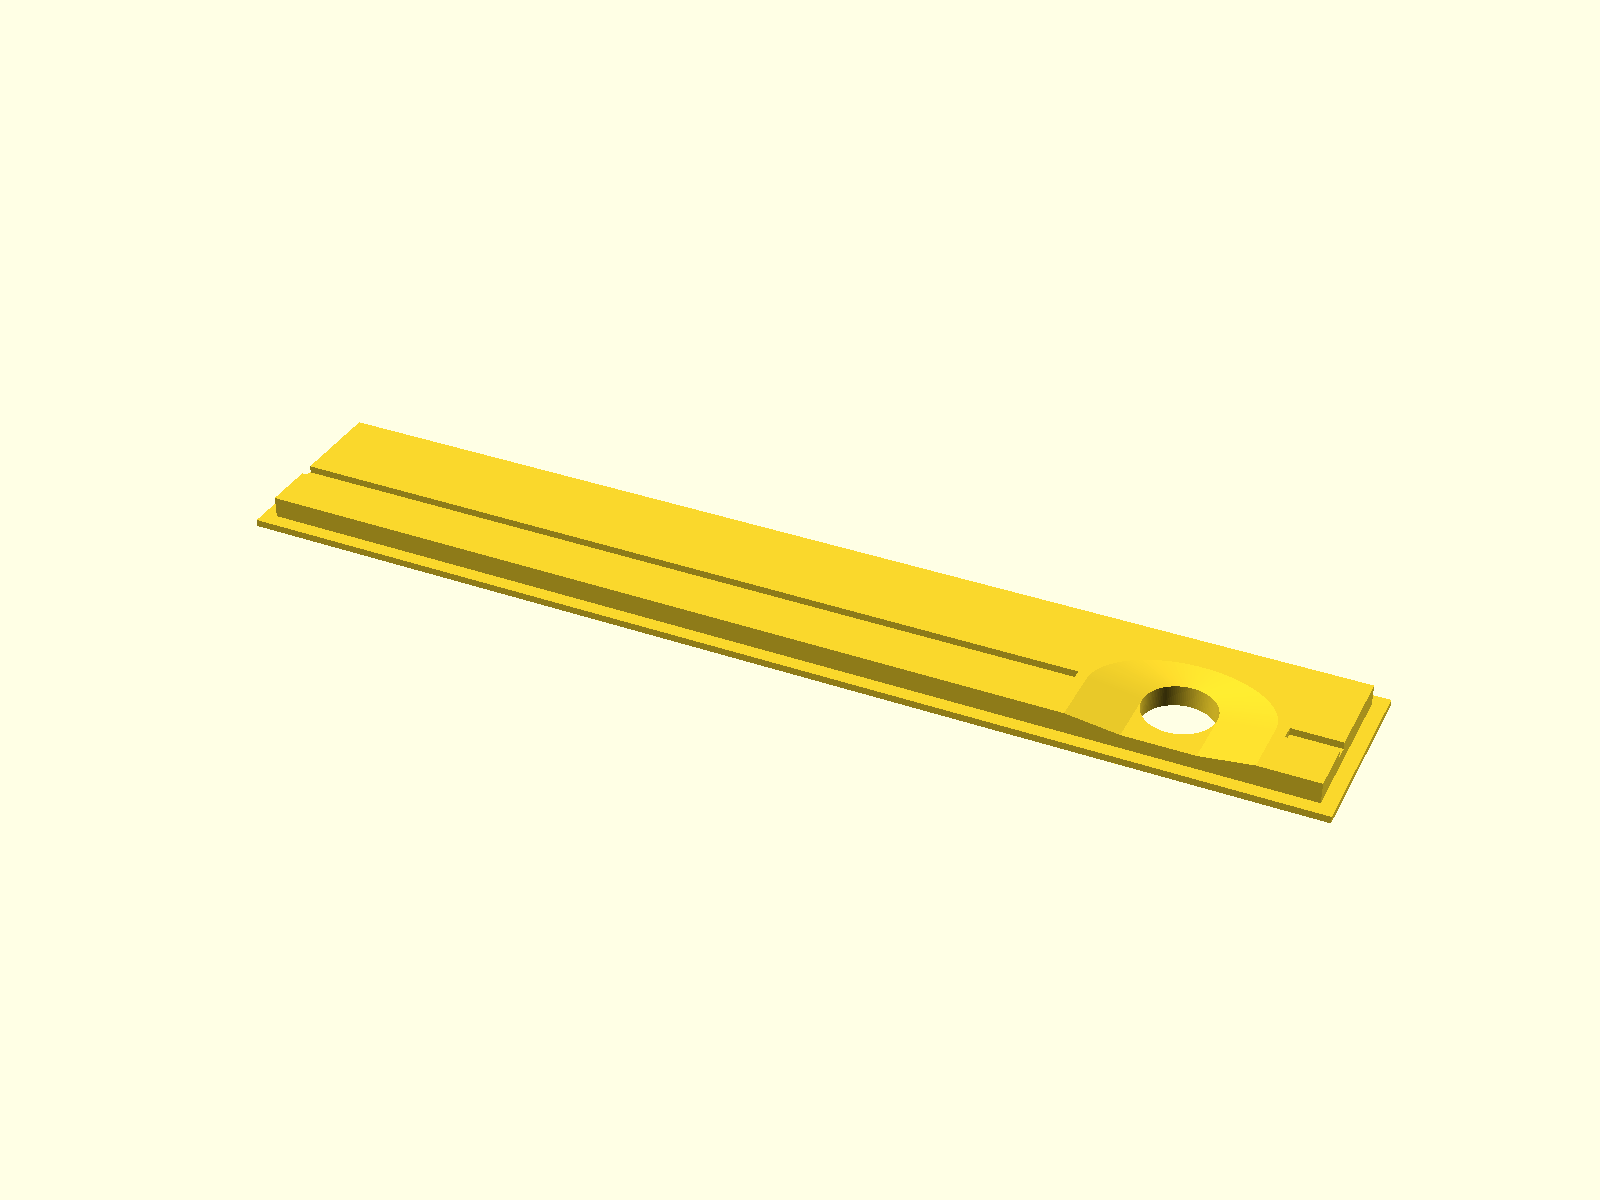
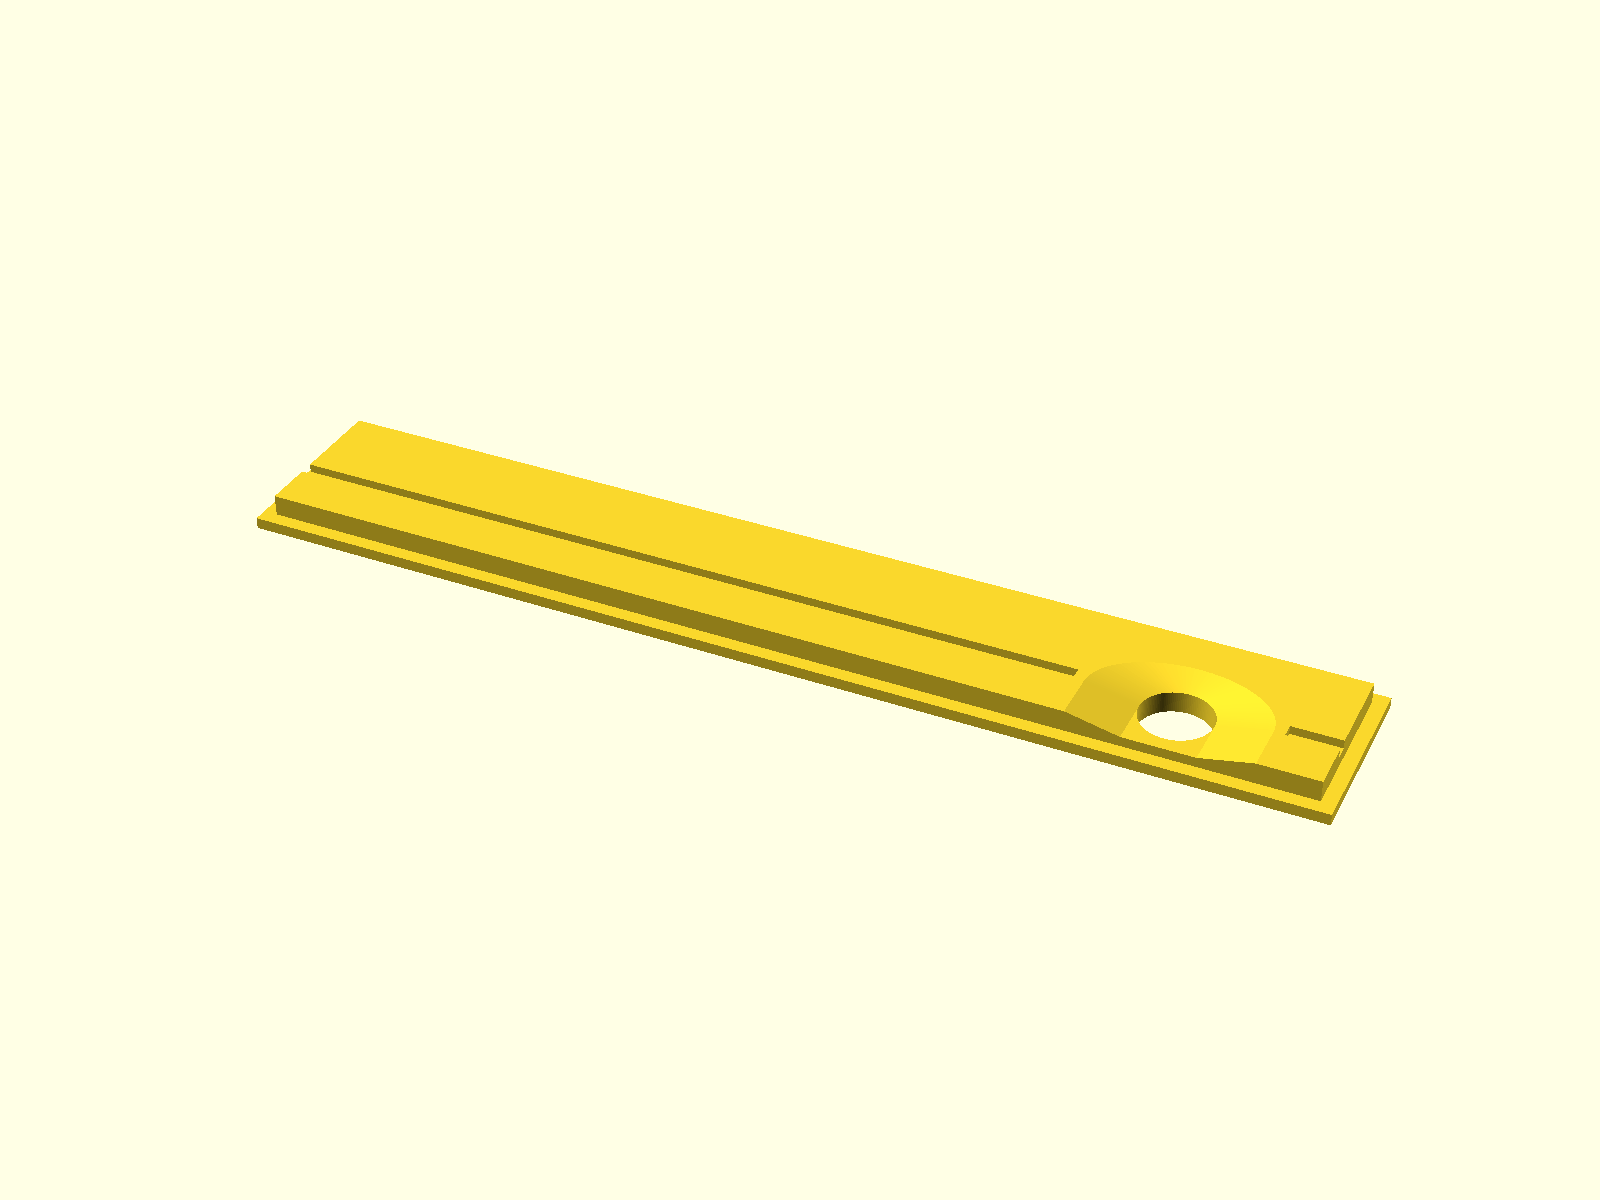
Update Korvet lid thickness, hole position and recess depths

diff --git a/models/pk8010-korvet/pk8010-korvet-side-lid/README.md b/models/pk8010-korvet/pk8010-korvet-side-lid/README.md
@@ -5,35 +5,37 @@ Stepped rectangular lid with a button through-hole, modeled from supplied dimens
 | Dimension | Value |
 | --- | ---: |
 | Base | 154 × 26 mm |
-| Base thickness | 1 mm |
+| Base thickness | 1.6 mm |
 | Centered upper rectangle | 150 × 22 mm |
 | Upper height above base | 3 mm |
-| Total height | 4 mm |
+| Total height | 4.6 mm |
 | Ledge on each side | 2 mm |
 | Button through-hole diameter | 10 mm |
-| Hole center from right / bottom base edges | 23 / 10 mm |
+| Hole center from right / bottom base edges | 23 / 9 mm |
 | Decorative groove center from bottom base edge | 10 mm |
-| Groove width / depth from top surface | 2 / 1 mm |
+| Groove width / depth from top surface | 2 / 1.2 mm |
 | Right / left groove length | 7 / 115 mm |
 | Finger recess width / upper arc ellipse height | 25 / 17 mm |
-| Recess depth at hole rim | 1 mm |
+| Recess depth at hole rim | 1.6 mm |
 
 In top view, with the origin at the base's bottom-left corner, the hole
-center is at X = 131 mm, Y = 10 mm. It passes through the full 4 mm thickness.
+center is at X = 131 mm, Y = 9 mm. It passes through the full 4.6 mm thickness.
 
 The finger recess has the upper half of a 25 × 17 mm ellipse centered on
 the hole, with straight sides descending from its widest points to the
 bottom edge. It slopes down to the hole rim and a 10 mm-wide central
-channel extending toward the bottom, both 1 mm below the top surface.
+channel extending toward the bottom, both 1.6 mm below the top surface.
 The recess opens across its full 25 mm width at the raised section's bottom
-edge. Its uppermost point is Y = 18.5 mm. The lower base ledge remains intact.
+edge. Its uppermost point is Y = 17.5 mm. The lower base ledge remains intact.
 
 Both decorative groove segments run horizontally at Y = 10 mm and cut only
-the raised section, from Z = 4 down to Z = 3 mm. The right segment runs
+the raised section, from Z = 4.6 down to Z = 3.4 mm. Their centerline is
+1 mm above the hole center. The right segment runs
 inward from the raised section's right edge (X = 152) to X = 145 mm,
-leaving a 9 mm gap to the hole. The left segment runs 115 mm inward from
-the raised section's left edge (X = 2) to X = 117 mm, leaving a 9 mm gap
-to the hole. Both lengths count only the raised section.
+leaving a 9 mm horizontal gap to the hole's rightmost point. The left segment
+runs 115 mm inward from the raised section's left edge (X = 2) to X = 117 mm,
+leaving a 9 mm horizontal gap to the hole's leftmost point. Both lengths count
+only the raised section.
 
 The transition is a square step. Print with the broad base on the bed,
 as modeled; no supports are needed. Dimensions are editable in `model.scad`.

diff --git a/models/pk8010-korvet/README.md b/models/pk8010-korvet/README.md
@@ -6,7 +6,7 @@ the ПК8010 Корвет.
 | Part | Dimensions and features | Printable STL |
 | --- | --- | --- |
 | [Button](pk8010-korvet-button/) | Ø7.6 × 14 mm; Ø4.4 mm blind bore, 10 mm deep | [Button STL](pk8010-korvet-button/pk8010-korvet-button.stl) |
-| [Side lid](pk8010-korvet-side-lid/) | 154 × 26 mm base, 4 mm total height; Ø10 mm button hole, decorative grooves, finger recess opening to bottom edge | [Lid STL](pk8010-korvet-side-lid/pk8010-korvet-side-lid.stl) |
+| [Side lid](pk8010-korvet-side-lid/) | 154 × 26 mm base, 4.6 mm total height; Ø10 mm button hole, decorative grooves, finger recess opening to bottom edge | [Lid STL](pk8010-korvet-side-lid/pk8010-korvet-side-lid.stl) |
 
 Each part directory contains editable `model.scad`, printing notes, and a
 preview. The lid's left groove is 115 mm long and its right groove is 7 mm;
